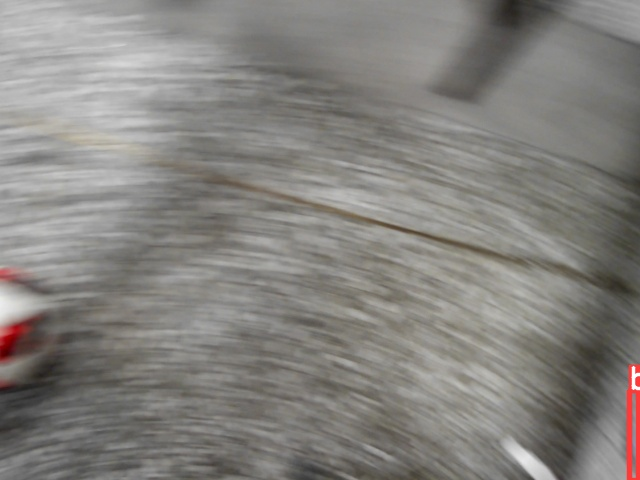
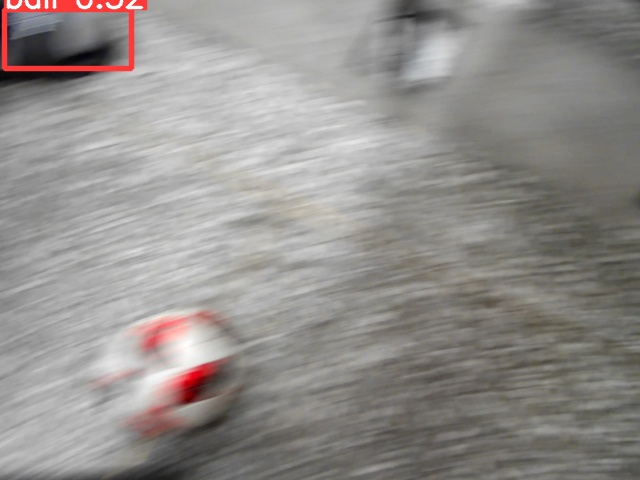
Change contour t0 HoughCircles

diff --git a/detect.py b/detect.py
@@ -199,46 +199,38 @@ if __name__ == "__main__":
                     # Perform bitwise AND operation between the mask and ROI
                     masked_roi = cv2.bitwise_and(roi, roi, mask=mask)
 
-                    # Contour detection
-                    contours, _ = cv2.findContours(mask, cv2.RETR_EXTERNAL, cv2.CHAIN_APPROX_SIMPLE)
+                    # Detect circles using HoughCircles on the ROI
+                    circles = cv2.HoughCircles(
+                        gray_roi,
+                        cv2.HOUGH_GRADIENT,
+                        dp=1,  # Inverse ratio of the accumulator resolution to the image resolution
+                        minDist=20,  # Minimum distance between the centers of the detected circles
+                        param1=50,  # Upper threshold for the internal Canny edge detector
+                        param2=30,  # Threshold for center detection
+                        minRadius=5,  # Minimum radius of the detected circles
+                        maxRadius=100  # Maximum radius of the detected circles
+                    )
 
-                    print(contours)
+                    # Draw the detected circles on the ROI
+                    if circles is not None:
+                        circles = np.uint16(np.around(circles))
+                        for circle in circles[0, :]:
+                            center = (circle[0], circle[1])
+                            radius = circle[2]
+                            # Draw the circle center
+                            cv2.circle(roi, center, 1, (0, 100, 100), 3)
+                            # Draw the circle outline
+                            cv2.circle(roi, center, radius, (255, 0, 255), 3)
 
-                    # Process each contour
-                    for contour in contours:
-                            
-                        # Adjust the contour coordinates to the original image
-                        contour[:, 0, 0] += x1
-                        contour[:, 0, 1] += y1
-                        
-                        # Draw each contour in green color (0, 255, 0) with a thickness of 2
-                        cv2.drawContours(full_image, [contour], -1, (0, 255, 0), 2)
-
-                        # Contour length
-                        perimeter = cv2.arcLength(contour, True)
-                        
-                        # Approximate polygon of the contour
-                        approx = cv2.approxPolyDP(contour, 0.03 * perimeter, True)
-                        
-                        # Number of vertices in the approximated polygon
-                        vertices = len(approx)
-                        
-                        # Fit the minimum enclosing ellipse around the approximated polygon
-                        if vertices >= 8:
-                            # Fit ellipse
-                            ellipse = cv2.fitEllipse(contour)
-                            
-                            # Calculate ellipse area
-                            area = np.pi * (ellipse[1][0] / 2) * (ellipse[1][1] / 2)
-                            print("Area of the ball:", area)
-                            
-                        # If it's a circle
-                        elif vertices >= 5:
                             # Calculate circle area
-                            area = cv2.contourArea(contour)
+                            area = np.pi * radius ** 2
                             print("Area of the ball:", area)
 
-                priROS.yolo_result_img_talker(predimage,fps)
+                    # Replace the processed ROI back into the full_image
+                    full_image[y1:y2, x1:x2] = roi
+
+                # Additional code to handle the end of the program, release the camera, and log the final inference time
+                priROS.yolo_result_img_talker(predimage, fps)
                 tinference, tnms = model.get_last_inference_time()
                 logger.info("Frame done in {}".format(tinference+tnms))
           except KeyboardInterrupt:
